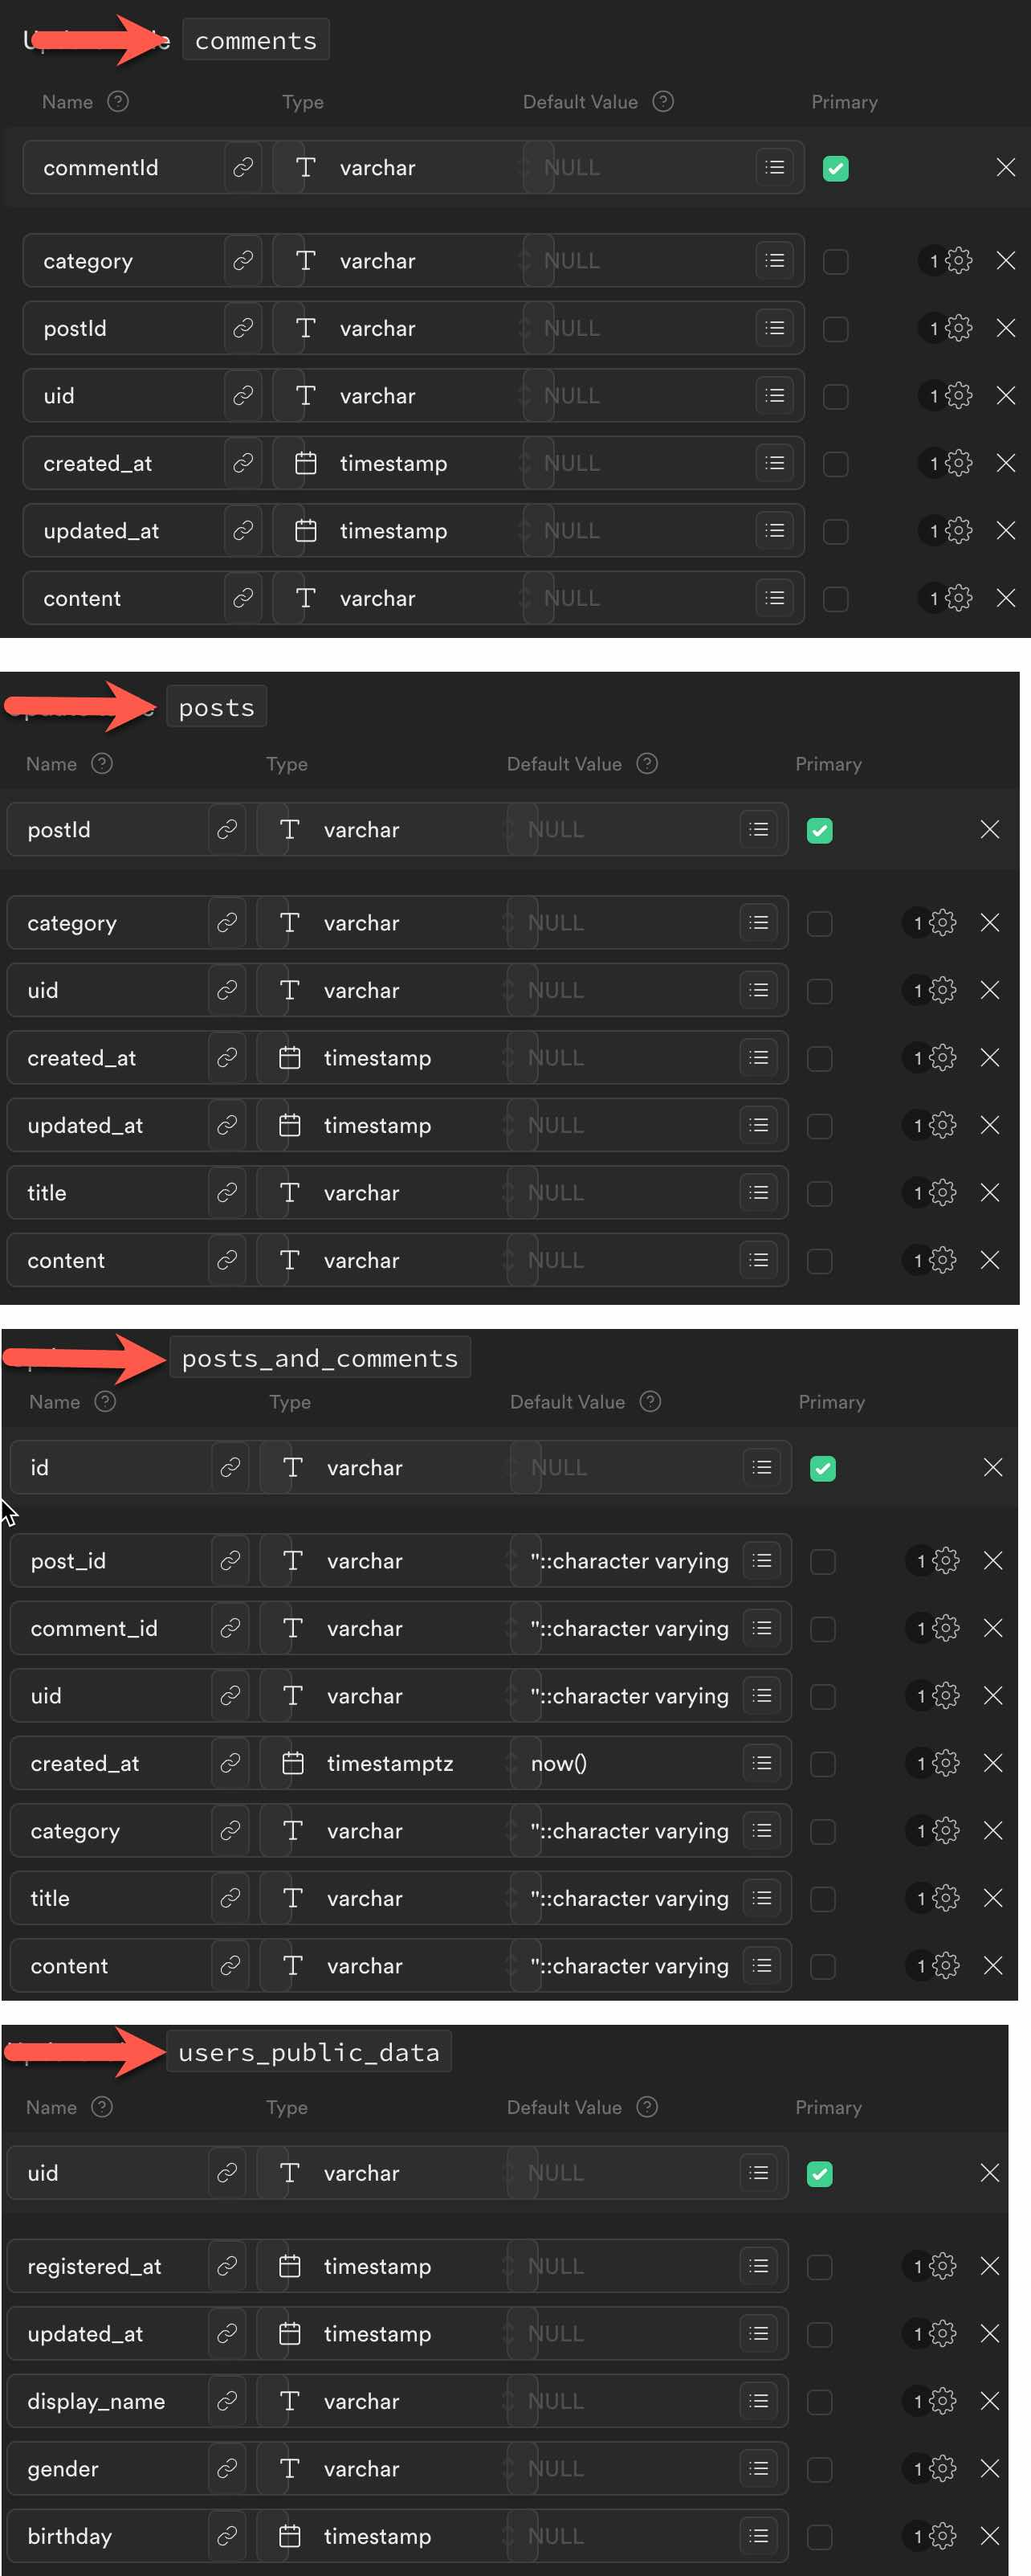
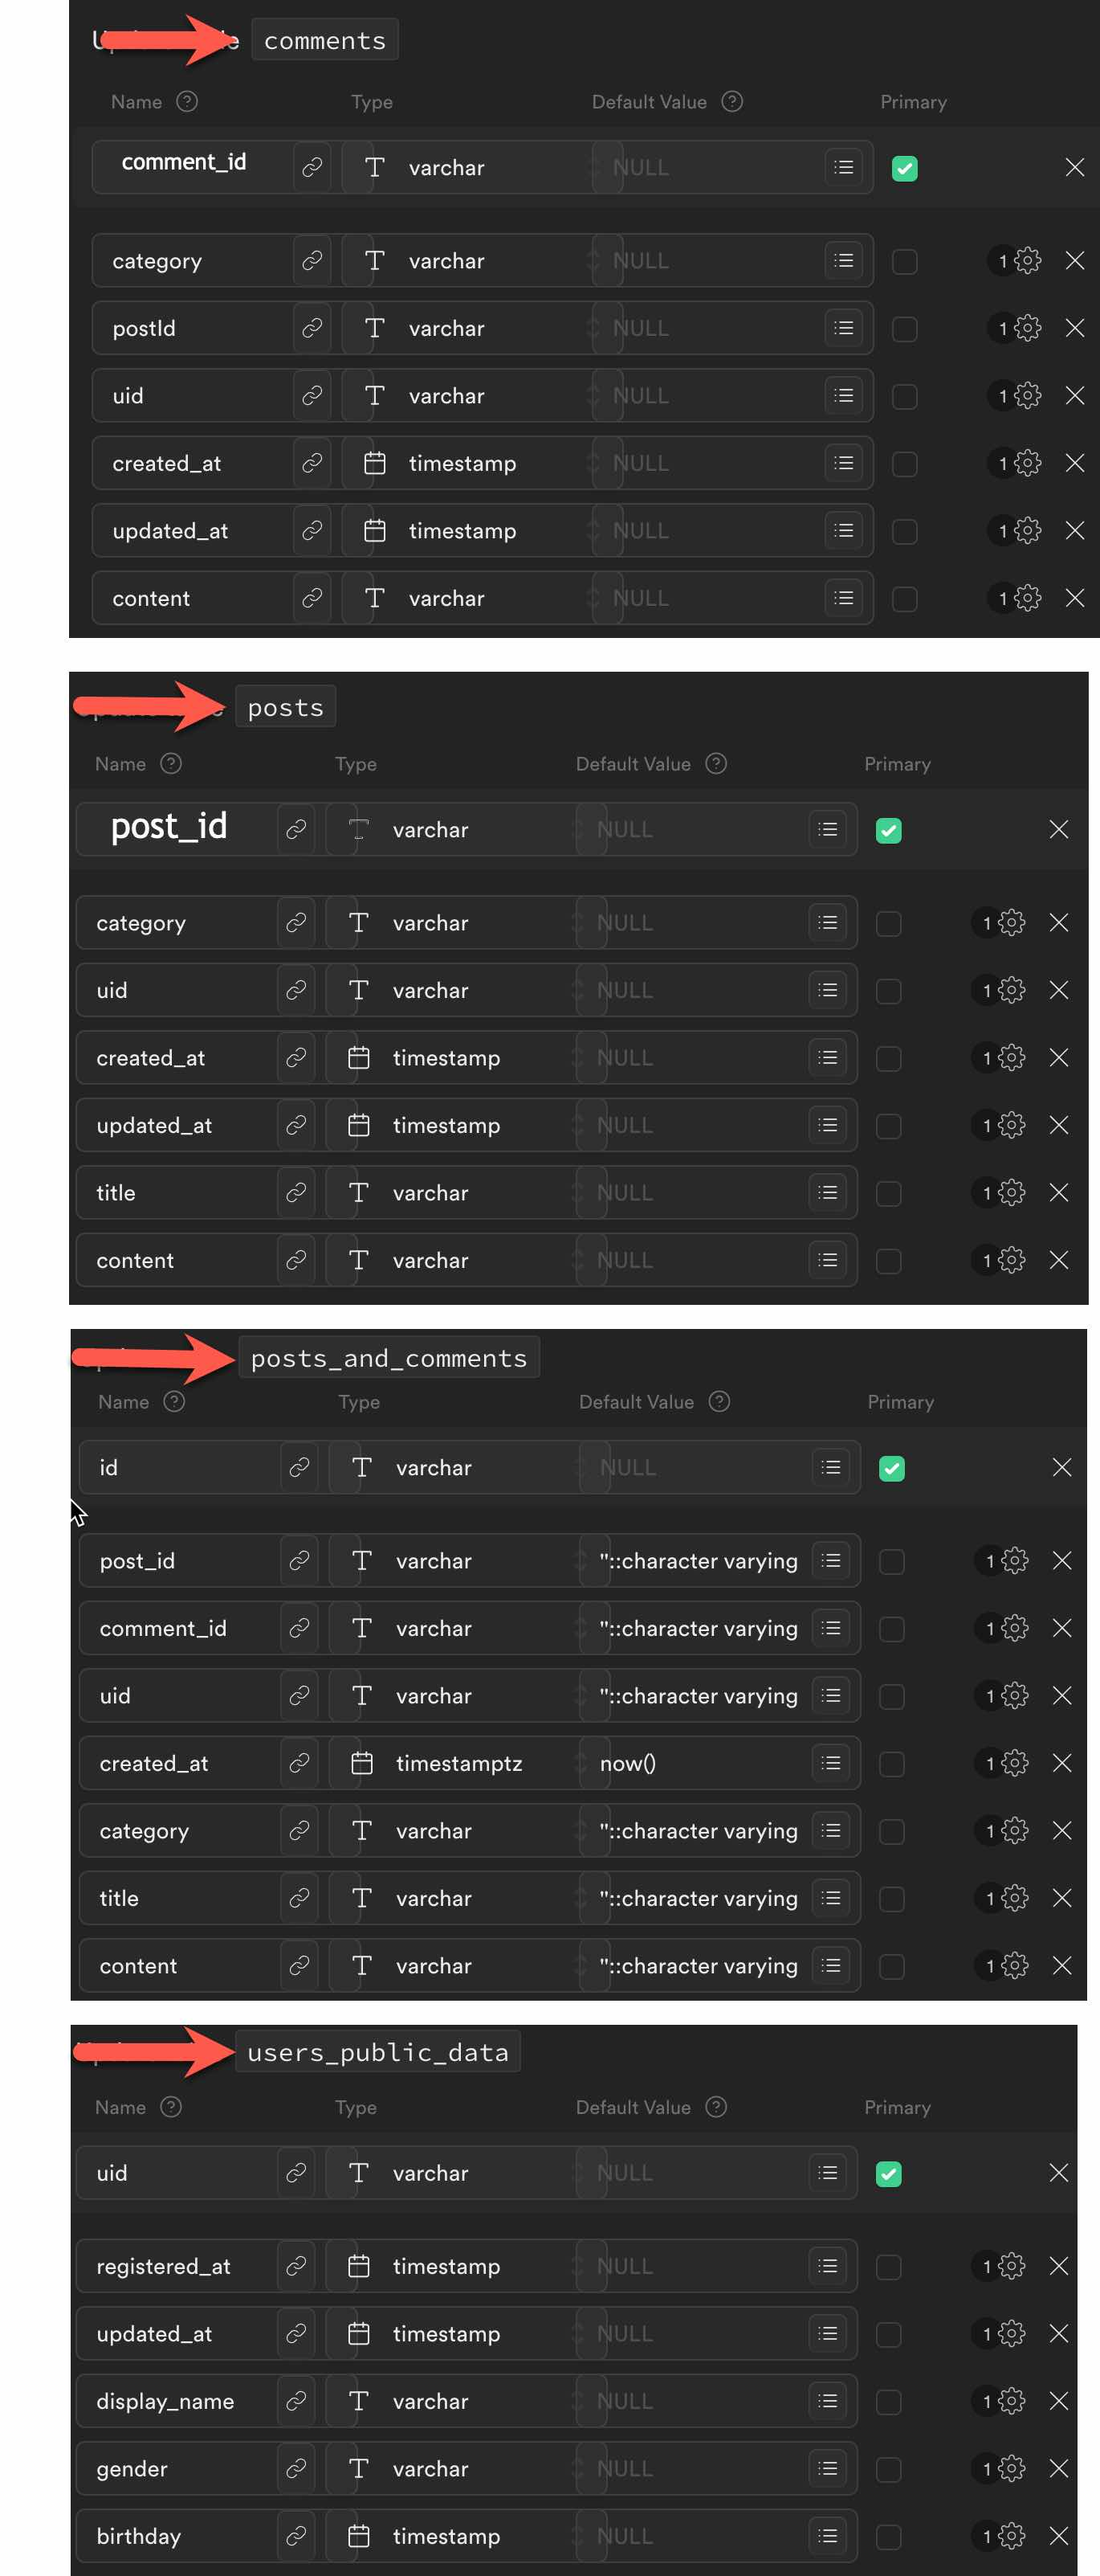
update for supabase

diff --git a/lib/src/comment/comment.service.dart b/lib/src/comment/comment.service.dart
@@ -100,21 +100,37 @@ class CommentService {
       ),
     );
 
-    if (SupabaseService.instance.backupComments) {
+    if (SupabaseService.instance.storeComments) {
       futures.add(
         supabase.comments.insert(
           {
-            'commentId': commentDocumentReference.id,
+            'comment_id': commentDocumentReference.id,
             'category': post.category,
-            'postId': post.id,
-            'uid': post.userDocumentReference.id,
+            'post_id': post.id,
+            'uid': comment.userDocumentReference.id,
             'created_at': comment.createdAt.toDate().toIso8601String(),
-            'updated_at': comment.updatedAt.toDate().toIso8601String(),
             'content': comment.content,
           },
         ),
       );
     }
+    if (SupabaseService.instance.storePostsAndComments) {
+      futures.add(
+        supabase.postsAndComments.insert(
+          {
+            'id': commentDocumentReference.id,
+            'post_id': post.id,
+            'comment_id': commentDocumentReference.id,
+            'category': post.category,
+            'uid': comment.userDocumentReference.id,
+            'created_at': comment.createdAt.toDate().toIso8601String(),
+            'content': comment.content,
+          },
+        ),
+      );
+    }
+
+    await Future.wait(futures);
   }
 
   afterUpdate({required DocumentReference commentDocumentReference}) async {
@@ -133,15 +149,35 @@ class CommentService {
       ),
     );
 
-    if (SupabaseService.instance.backupComments) {
+    if (SupabaseService.instance.storeComments) {
       futures.add(
         supabase.comments.upsert(
           {
-            'commentId': commentDocumentReference.id,
-            'updated_at': comment.updatedAt.toDate().toIso8601String(),
+            'comment_id': commentDocumentReference.id,
+            'post_id': comment.postDocumentReference.id,
+            'category': comment.category,
+            'uid': comment.userDocumentReference.id,
+            'created_at': comment.createdAt.toDate().toIso8601String(),
             'content': comment.content,
           },
-          onConflict: 'commentId',
+          onConflict: 'comment_id',
+        ),
+      );
+    }
+
+    if (SupabaseService.instance.storePostsAndComments) {
+      futures.add(
+        supabase.postsAndComments.upsert(
+          {
+            'id': commentDocumentReference.id,
+            'post_id': comment.postDocumentReference.id,
+            'comment_id': commentDocumentReference.id,
+            'category': comment.category,
+            'uid': comment.userDocumentReference.id,
+            'created_at': comment.createdAt.toDate().toIso8601String(),
+            'content': comment.content,
+          },
+          onConflict: 'id',
         ),
       );
     }
@@ -171,11 +207,14 @@ class CommentService {
       ),
     );
 
-    // don't decrease no of comments in post.
-
-    if (SupabaseService.instance.backupComments) {
+    if (SupabaseService.instance.storeComments) {
       futures.add(
-        supabase.comments.delete().eq('commentId', comment.id),
+        supabase.comments.delete().eq('comment_id', comment.id),
+      );
+    }
+    if (SupabaseService.instance.storePostsAndComments) {
+      futures.add(
+        supabase.postsAndComments.delete().eq('id', comment.id),
       );
     }
 

diff --git a/lib/src/post/post.service.dart b/lib/src/post/post.service.dart
@@ -89,7 +89,7 @@ class PostService {
       ),
     );
 
-    if (SupabaseService.instance.backupPosts) {
+    if (SupabaseService.instance.storePosts) {
       futures.add(
         supabase.posts.insert(
           {
@@ -97,7 +97,21 @@ class PostService {
             'category': post.category,
             'uid': my.uid,
             'created_at': post.createdAt.toDate().toIso8601String(),
-            'updated_at': post.updatedAt.toDate().toIso8601String(),
+            'title': post.title,
+            'content': post.content,
+          },
+        ),
+      );
+    }
+    if (SupabaseService.instance.storePostsAndComments) {
+      futures.add(
+        supabase.postsAndComments.insert(
+          {
+            'id': postDocumentReference.id,
+            'post_id': postDocumentReference.id,
+            'category': post.category,
+            'uid': my.uid,
+            'created_at': post.createdAt.toDate().toIso8601String(),
             'title': post.title,
             'content': post.content,
           },
@@ -124,15 +138,36 @@ class PostService {
     );
 
     /// Note, the `updatedAt` field here is not the last time the post was updated.
-    if (SupabaseService.instance.backupPosts) {
+    if (SupabaseService.instance.storePosts) {
       futures.add(
-        supabase.posts.upsert({
-          'post_id': postDocumentReference.id,
-          'category': post.category,
-          'updated_at': post.updatedAt.toDate().toIso8601String(),
-          'title': post.title,
-          'content': post.content,
-        }, onConflict: 'post_id'),
+        supabase.posts.upsert(
+          {
+            'post_id': postDocumentReference.id,
+            'category': post.category,
+            'uid': my.uid,
+            'created_at': post.createdAt.toDate().toIso8601String(),
+            'title': post.title,
+            'content': post.content,
+          },
+          onConflict: 'post_id',
+        ),
+      );
+    }
+
+    if (SupabaseService.instance.storePosts) {
+      futures.add(
+        supabase.postsAndComments.upsert(
+          {
+            'id': postDocumentReference.id,
+            'post_id': postDocumentReference.id,
+            'category': post.category,
+            'uid': my.uid,
+            'created_at': post.createdAt.toDate().toIso8601String(),
+            'title': post.title,
+            'content': post.content,
+          },
+          onConflict: 'id',
+        ),
       );
     }
 
@@ -168,9 +203,14 @@ class PostService {
       ),
     );
 
-    if (SupabaseService.instance.backupPosts) {
+    if (SupabaseService.instance.storePosts) {
       futures.add(
         supabase.posts.delete().eq('post_id', post.id),
+      );
+    }
+    if (SupabaseService.instance.storePostsAndComments) {
+      futures.add(
+        supabase.postsAndComments.delete().eq('id', post.id),
       );
     }
 

diff --git a/lib/src/supabase/supabase.service.dart b/lib/src/supabase/supabase.service.dart
@@ -7,17 +7,13 @@ class SupabaseService {
   static SupabaseService get instance => _instance ??= SupabaseService();
   static SupabaseService? _instance;
 
-  SupabaseQueryBuilder get usersPublicData =>
-      Supabase.instance.client.from(Config.instance.supabase!.usersPublicData!);
-  SupabaseQueryBuilder get posts =>
-      Supabase.instance.client.from(Config.instance.supabase!.posts!);
-  SupabaseQueryBuilder get comments =>
-      Supabase.instance.client.from(Config.instance.supabase!.comments!);
+  SupabaseQueryBuilder get usersPublicData => Supabase.instance.client.from(Config.instance.supabase!.usersPublicData!);
+  SupabaseQueryBuilder get posts => Supabase.instance.client.from(Config.instance.supabase!.posts!);
+  SupabaseQueryBuilder get comments => Supabase.instance.client.from(Config.instance.supabase!.comments!);
+  SupabaseQueryBuilder get postsAndComments => Supabase.instance.client.from(Config.instance.supabase!.postsAndComments!);
 
-  bool get backupUsersPubicData =>
-      Config.instance.supa && Config.instance.supabase!.usersPublicData != null;
-  bool get backupPosts =>
-      Config.instance.supa && Config.instance.supabase!.posts != null;
-  bool get backupComments =>
-      Config.instance.supa && Config.instance.supabase!.comments != null;
+  bool get storeUsersPubicData => Config.instance.supa && Config.instance.supabase!.usersPublicData != null;
+  bool get storePosts => Config.instance.supa && Config.instance.supabase!.posts != null;
+  bool get storeComments => Config.instance.supa && Config.instance.supabase!.comments != null;
+  bool get storePostsAndComments => Config.instance.supa && Config.instance.supabase!.postsAndComments != null;
 }

diff --git a/lib/src/user/user.service.dart b/lib/src/user/user.service.dart
@@ -26,14 +26,12 @@ class UserService {
   String get uid => FA.FirebaseAuth.instance.currentUser!.uid;
 
   /// The login user's document reference
-  DocumentReference get ref =>
-      FirebaseFirestore.instance.collection('users').doc(uid);
+  DocumentReference get ref => FirebaseFirestore.instance.collection('users').doc(uid);
 
   DocumentReference get myRef => ref;
 
   /// The login user's public data document reference
-  DocumentReference get myUserPublicDataRef =>
-      FirebaseFirestore.instance.collection('users_public_data').doc(uid);
+  DocumentReference get myUserPublicDataRef => FirebaseFirestore.instance.collection('users_public_data').doc(uid);
 
   get publicRef => myUserPublicDataRef;
 
@@ -124,12 +122,10 @@ class UserService {
   listenUserPublicData() {
     /// Observe the user public data.
     publicDataSubscription?.cancel();
-    publicDataSubscription = UserService.instance.myUserPublicDataRef
-        .snapshots()
-        .listen((snapshot) async {
+    publicDataSubscription = UserService.instance.myUserPublicDataRef.snapshots().listen((snapshot) async {
       if (snapshot.exists) {
         my = UserPublicDataModel.fromSnapshot(snapshot);
-        if (SupabaseService.instance.backupUsersPubicData) {
+        if (SupabaseService.instance.storeUsersPubicData) {
           /// Upsert the user public data to Supabase.
           // await Supabase.instance.client
           //     .from(Config.instance.supabase.usersPublicData)

diff --git a/lib/src/supabase/supabase.options.dart b/lib/src/supabase/supabase.options.dart
@@ -2,10 +2,13 @@
 ///
 /// [usersPublicData] is the name of the table that stores public user data. If
 /// this is null, then the user public data is not stored in Supabase.
+///
 /// [posts] is the name of the table that stores posts. If this is null, then
 /// the posts are not stored in Supabase.
+///
 /// [comments] is the name of the table that stores comments. If this is null,
 /// then the comments are not stored in Supabase.
+///
 /// [postsAndComments] is the name of the table that stores posts and comments.
 /// If this is null, then the posts and comments are not stored in the
 /// [postsAndComments] table of Supabase.

diff --git a/README.md b/README.md
@@ -950,13 +950,13 @@ The recent 50 posts of each users wil be saved in `recentPosts`.
 # Supabase
 
 - We support the supabase for the text search and the complicated conditional filterings.
-  - User profile, post, comment, chat title will be automatically saved into supabase the option is enabled.
+  - User profile, post, are comment are automatically saved into supabase if the option is enabled.
   - Only the public data (non-sensitive private information of the user) should be saved in the supabase.
 
 - See the offical document for understanding [the Supabase](https://docs.flutterflow.io/data-and-backend/supabase).
 
 - To enable the Supabase in the fireflow,
-  - And prepare `users_public_data`, `posts`, `comments` schemas like below.
+  - Create tabls `users_public_data`, `posts`, `comments`, and `posts_and_comments` in Supabase.
   ![Image Link](https://github.com/withcenter/fireflow/blob/main/etc/readme/img/ff-supabase.jpg?raw=true "Supabase")
   - set the `supabase` options like below.
     - `AppService.instance.init(supabase: SupabaseOptions(...))`.
